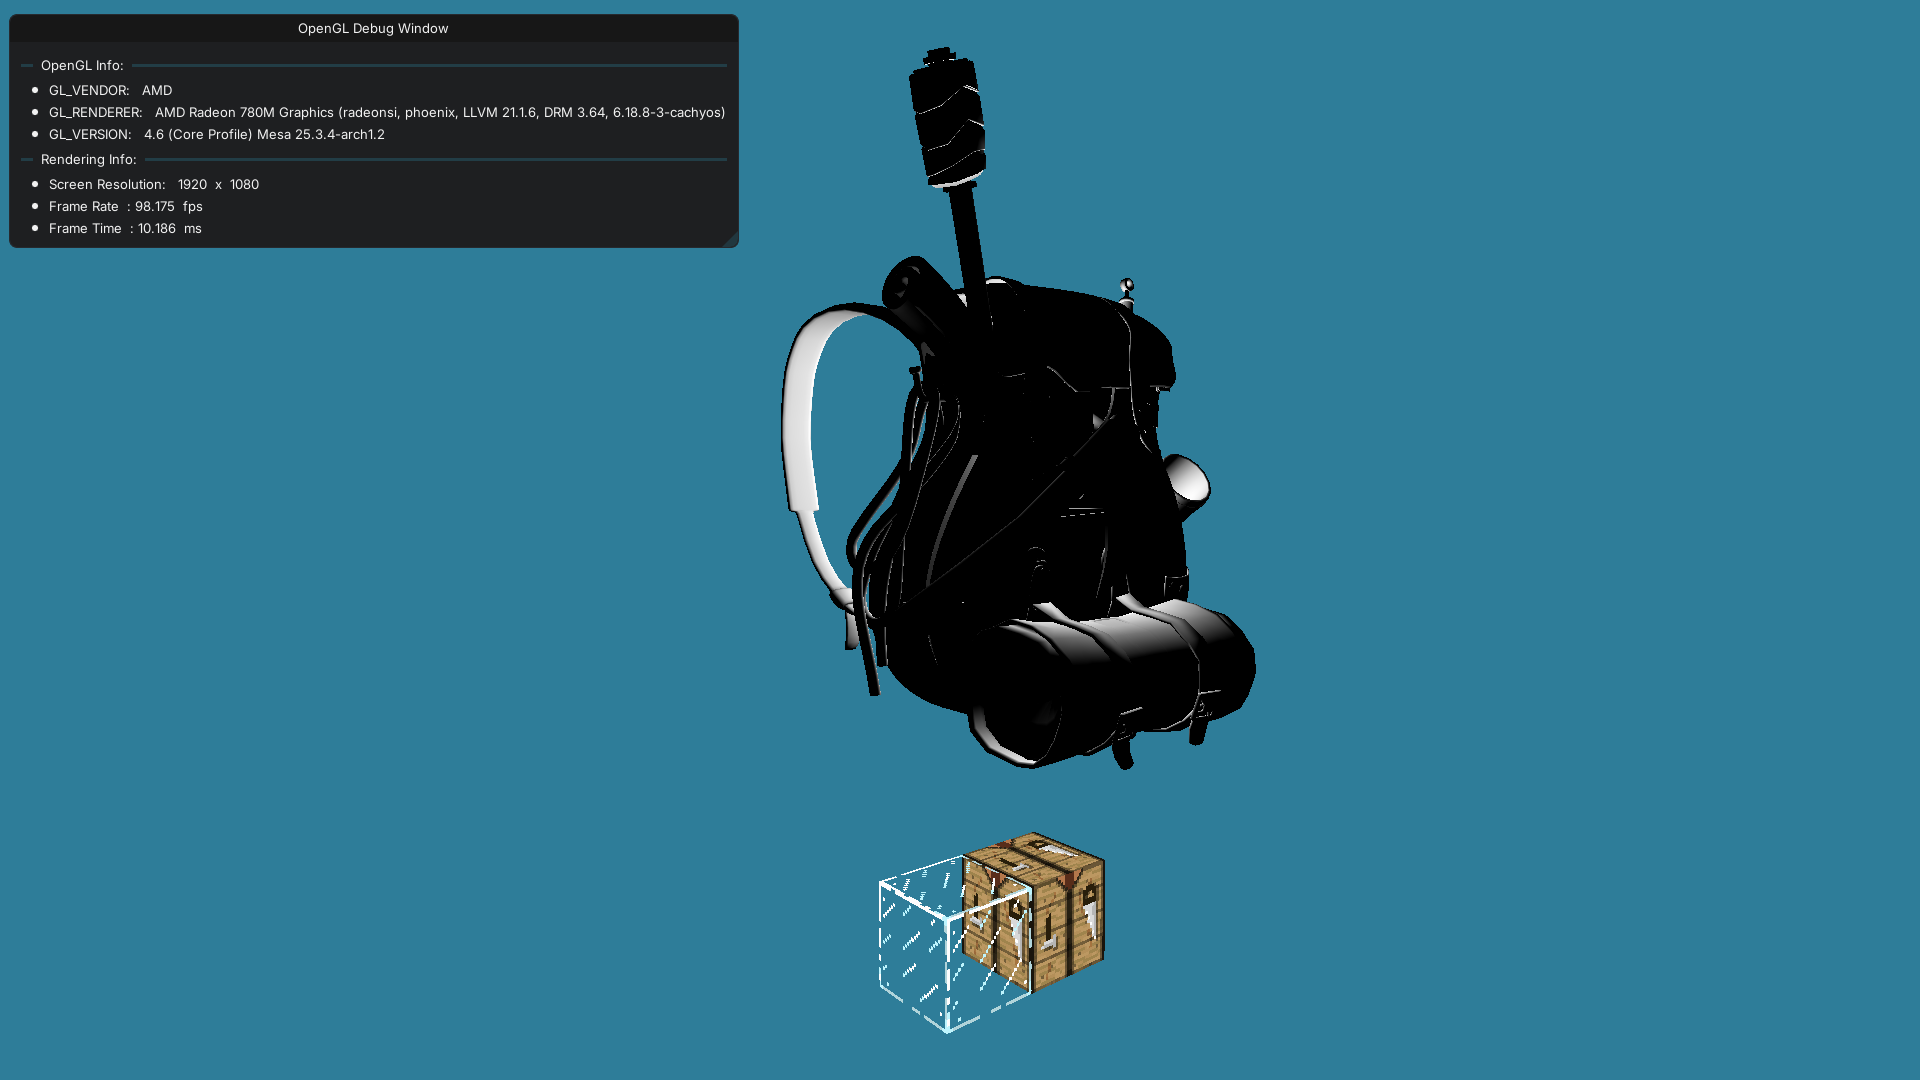
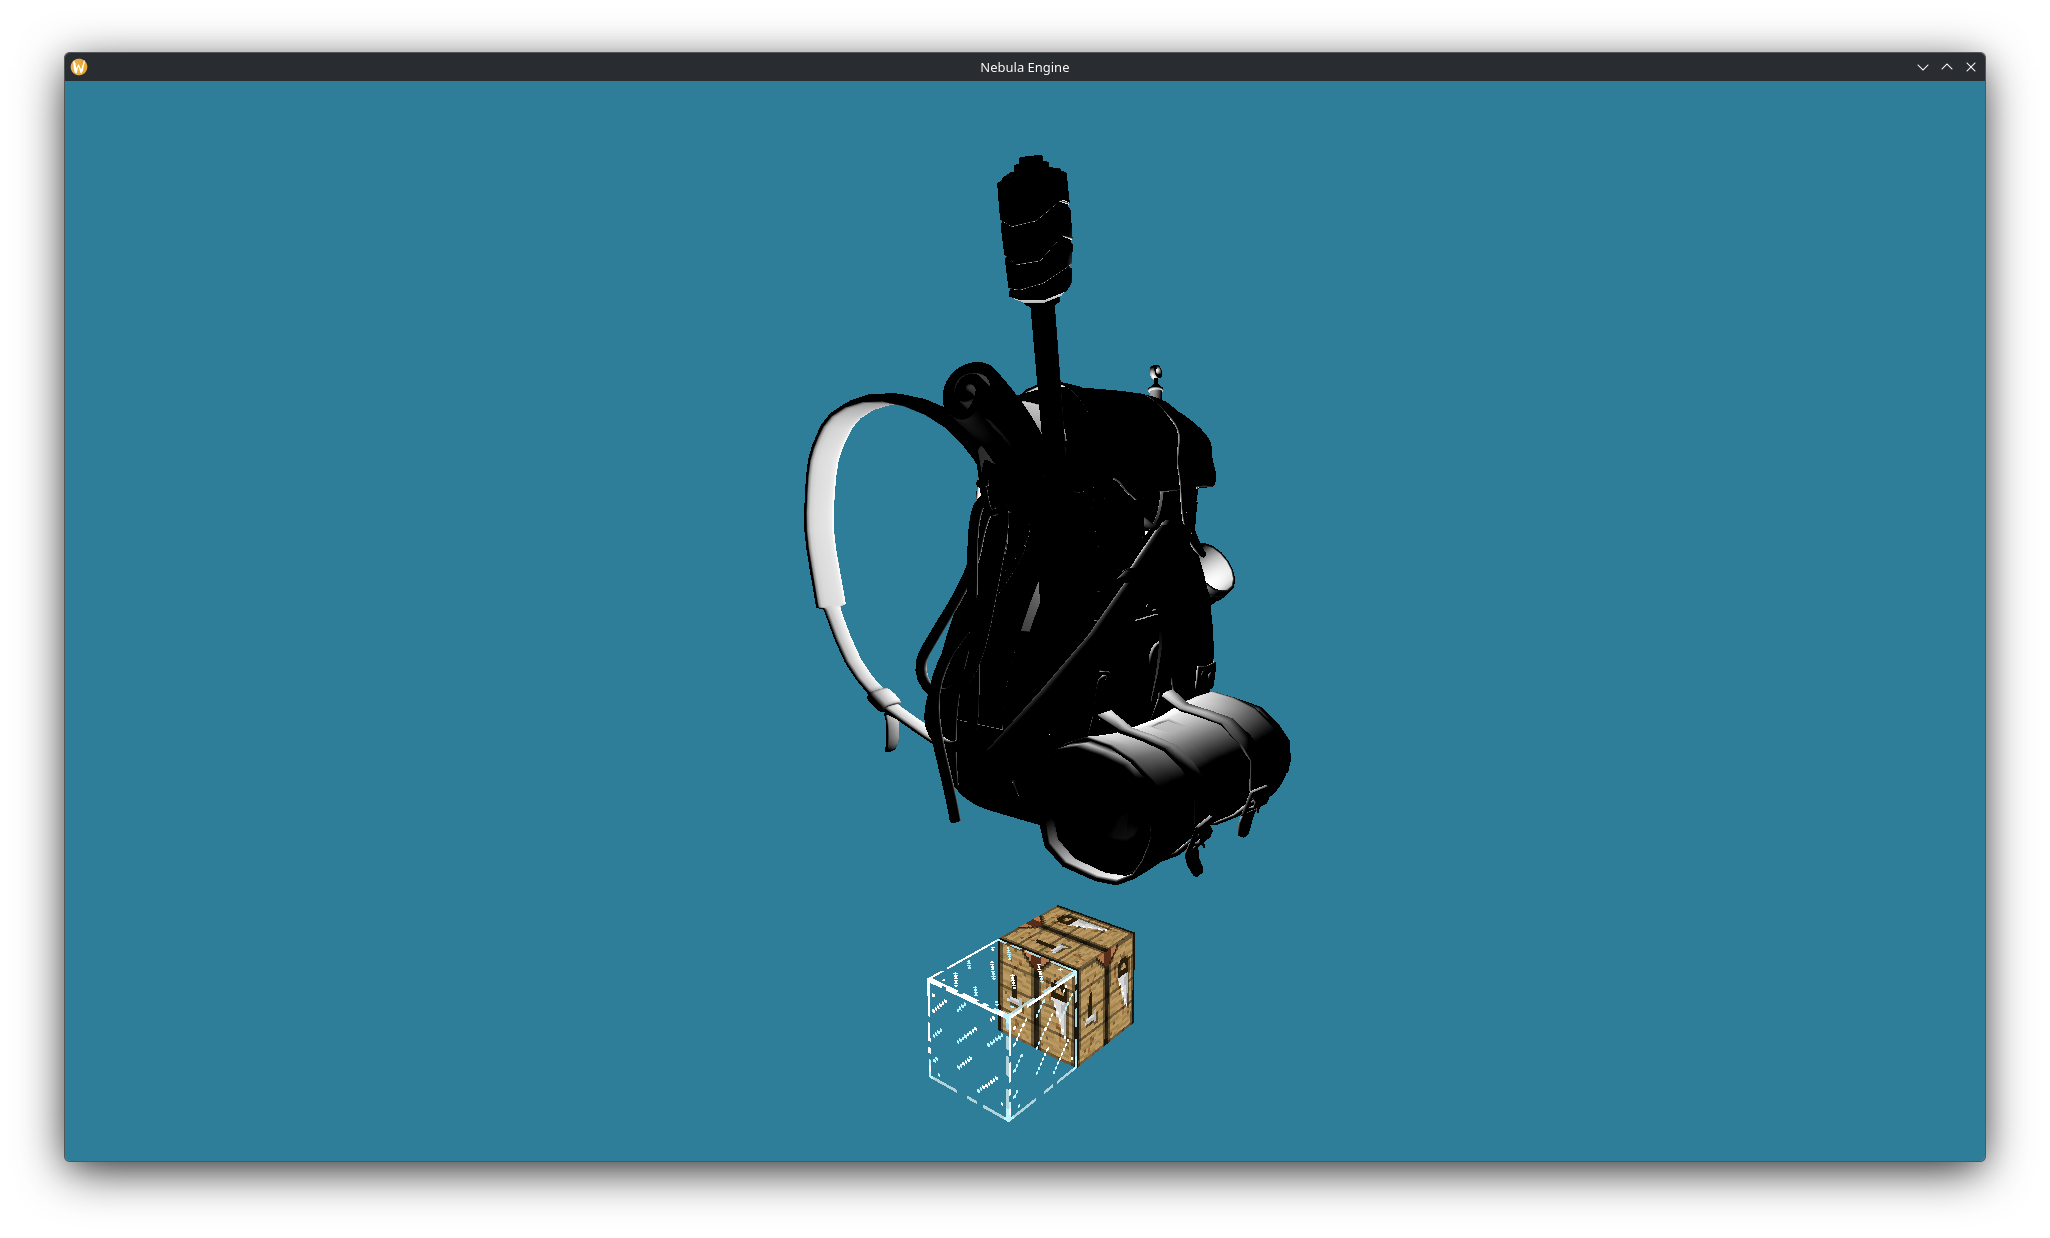
Updated dependencies and improved README.md

Changed region(s): [[0.0, 0.0, 1.0, 1.0]]

diff --git a/README.md b/README.md
@@ -5,11 +5,15 @@ Nebula Engine is a 2D/3D game engine used as a learning project.
 ## Features
 
 Features include:
-1. Windows, MacOS and Linux support.
-2. OpenGL 4.6.0 graphics API support. (OpenGL 4.1.0 on MacOS)
-3. 2D and 3D rendering.
-4. Model loading.
-5. ImGui for UI rendering.
+1. 2D and 3D rendering.
+2. Model loading.
+3. Slang shading language support.
+4. ImGui for UI rendering.
+
+Supported Platforms:
+- Windows (OpenGL 4.6.0)
+- macOS (Metal 3)
+- Linux (OpenGL 4.6.0)
 
 
 ## Dependencies
@@ -20,6 +24,11 @@ Requirements for building on Windows:
 - NuGet
 - Windows 10.0.26100.0 SDK
 - Windows App SDK 2.1.3
+
+Requirements for building on macOS:
+- CMake 4.0
+- Clang
+- XCode
 
 Requirements for building on Linux:
 - CMake 4.0
@@ -36,15 +45,26 @@ Libraries used:
 - [Glad2](https://github.com/Dav1dde/glad)
 - [glm](https://github.com/g-truc/glm)
 - [ImGui](https://github.com/ocornut/imgui)
-- [SDL](https://www.libsdl.org/)
+- [ImGuizmo](https://github.com/cedricguillemet/imguizmo)
+- [MacOS SDK](https://developer.apple.com/macos/) (MacOS only)
+- [metal-cpp](https://github.com/apple/metal-cpp) (MacOS only)
+- [NanoSVG](https://github.com/memononen/nanosvg)
+- [SDL3](https://www.libsdl.org/) (Linux only)
+- [Slang](https://github.com/shader-slang/slang)
 - [spdlog](https://github.com/gabime/spdlog)
 - [std_image](https://github.com/nothings/stb)
+- [C++/WinRT](https://github.com/microsoft/cppwinrt) (Windows only)
 - [yaml-cpp](https://github.com/jbeder/yaml-cpp)
+- [Windows App SDK](https://learn.microsoft.com/en-us/windows/apps/windows-app-sdk/) (Windows only)
+- [Windows SDK](https://learn.microsoft.com/en-us/windows/apps/windows-sdk/) (Windows only)
 
 ## Images
 
 Nebula Editor:
 ![NebulaEditor](Docs/Images/NebulaEditor.png)
+
+2D Rendering:
+![NebulaEngine](Docs/Images/NebulaEngine2D.png)
 
 3D Rendering:
 ![NebulaEngine](Docs/Images/NebulaEngine3D.png)
